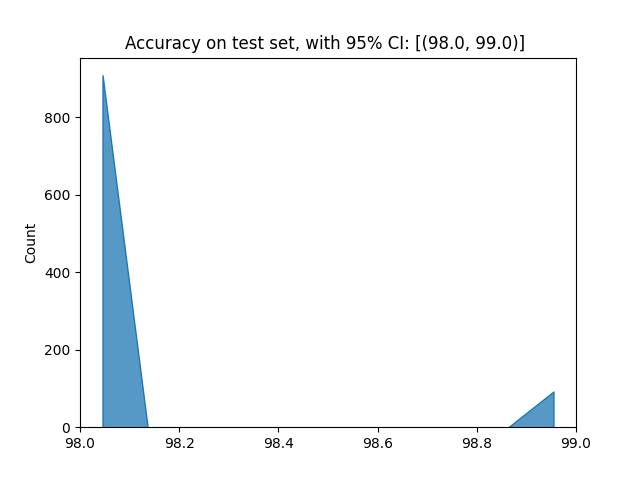
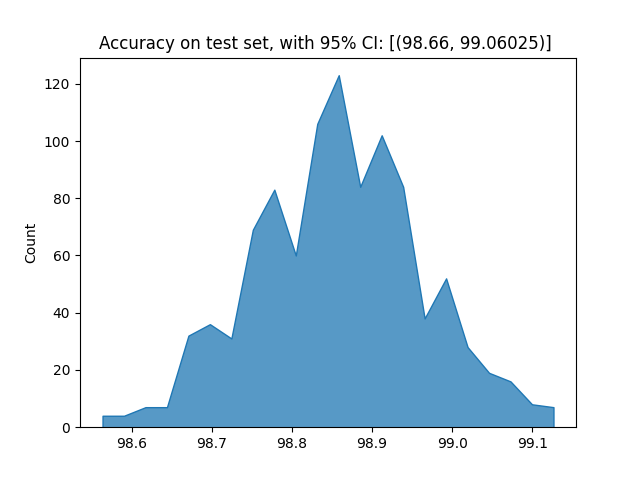
found bug. new results for evaluation

diff --git a/src/utils/model_utils.py b/src/utils/model_utils.py
@@ -1,13 +1,10 @@
 import sys
 from tqdm import tqdm
-from sklearn.model_selection import StratifiedKFold
 import torch
 import torch.nn as nn
 import torch.optim 
 from torch.utils.data import DataLoader
 import git 
-import yaml
-import pandas as pd
 import numpy as np
 
 PATH_TO_ROOT = git.Repo(".", search_parent_directories=True).working_dir
@@ -15,48 +12,70 @@ sys.path.append(PATH_TO_ROOT)
 
 from src.models.CNN import ConvNet
 from src.models.LogisticRegression import LogisticRegression
-from src.utils import utils
 
 def train_model(trainloader: DataLoader, config: dict, layer_configs=None, learning_rate=None, epochs=None):
-        if learning_rate == None:
-            learning_rate=config['learning_rate']
+    """
+    Trains a model using the provided data set and configuration. 
 
-        if epochs==None:
-            epochs = config['epochs']
+    Args:
+        trainloader (DataLoader): DataLoader for the training dataset.
+        config (dict): Configuration dictionary containing model settings like learning rate, epochs, and model type.
+        layer_configs (dict, optional): Configuration for model layers for CNN (default is None).
+        learning_rate (float, optional): Learning rate for the optimizer (default is None).
+        epochs (int, optional): Number of training epochs (default is None).
 
-        if config['model_type'] == "cnn":
-            model = ConvNet(layer_configs)
-            criterion = nn.CrossEntropyLoss()
-            optimizer  = torch.optim.Adam(model.parameters(), lr=learning_rate)
-        
-        if config['model_type'] == "logreg":
-            model = LogisticRegression()
-            criterion = nn.NLLLoss()
-            optimizer = torch.optim.SGD(model.parameters(), lr=learning_rate)
-        
-        
-        for epoch in tqdm(range(epochs)):
-            running_loss = 0.0
-            for i, data in enumerate(trainloader):
-                inputs, labels = data #list of [inputs, labels]
-                optimizer.zero_grad()
+    Returns:
+        nn.Module: The trained model.
+    """
+    if learning_rate == None:
+        learning_rate=config['learning_rate']
 
-                #forward
-                outputs = model(inputs)
-                loss = criterion(outputs, labels)
-                loss.backward()
-                optimizer.step()
+    if epochs==None:
+        epochs = config['epochs']
 
-                # print stats
-                running_loss += loss.item()
-                if i % config['print_interval'] == config['print_interval']-1: #print every interval
-                    print(f'[{epoch + 1}, {i + 1:5d}] loss: {running_loss / 2000:.3f}')
-                    running_loss = 0.0
+    if config['model_type'] == "cnn":
+        model = ConvNet(layer_configs)
+        criterion = nn.CrossEntropyLoss()
+        optimizer  = torch.optim.Adam(model.parameters(), lr=learning_rate)
+    
+    if config['model_type'] == "logreg":
+        model = LogisticRegression()
+        criterion = nn.NLLLoss()
+        optimizer = torch.optim.SGD(model.parameters(), lr=learning_rate)
+    
+    
+    for epoch in tqdm(range(epochs)):
+        running_loss = 0.0
+        for i, data in enumerate(trainloader):
+            inputs, labels = data #list of [inputs, labels]
+            optimizer.zero_grad()
 
-        return model
+            #forward
+            outputs = model(inputs)
+            loss = criterion(outputs, labels)
+            loss.backward()
+            optimizer.step()
+
+            # print stats
+            running_loss += loss.item()
+            if i % config['print_interval'] == config['print_interval']-1: #print every interval
+                print(f'[{epoch + 1}, {i + 1:5d}] loss: {running_loss / 2000:.3f}')
+                running_loss = 0.0
+
+    return model
 
 
-def test_model(testloader, model):         # Test on data set
+def test_model(testloader: DataLoader, model: nn.Module) -> float:    
+    """
+    Tests the model on the given test data and computes the overall accuracy.
+
+    Args:
+        testloader (DataLoader): DataLoader for the test dataset.
+        model (nn.Module): The trained model to evaluate.
+
+    Returns:
+        float: The overall accuracy as a percentage
+    """    
     correct = 0
     total = 0
     # since we're not training, we don't need to calculate the gradients for our outputs
@@ -70,10 +89,21 @@ def test_model(testloader, model):         # Test on data set
             total += labels.size(0)
             correct += (predicted == labels).sum().item()
 
-    accuracy = 100 * correct // total
+    accuracy = 100 * correct / total
     return accuracy
 
 def test_model_classwise(testloader, model, classes):
+    """
+    Tests the model on the given test data and computes the accuracy for each class.
+
+    Args:
+        testloader (DataLoader): DataLoader for the test dataset.
+        model (nn.Module): The trained model to evaluate.
+        classes (list): List of class names.
+
+    Returns:
+        dict: A dictionary with class-wise accuracy for each class.
+    """
      # prepare to count predictions for each class
     score_dict = {classname: 0 for classname in classes}
     correct_pred = {classname: 0 for classname in classes}

diff --git a/src/utils/cross_validation.py b/src/utils/cross_validation.py
@@ -1,33 +1,41 @@
 
 import sys
-from tqdm import tqdm
 from sklearn.model_selection import StratifiedKFold
 import torch
-import torch.nn as nn
 import torch.optim 
 from torch.utils.data import DataLoader
 import git 
-import yaml
 
 PATH_TO_ROOT = git.Repo(".", search_parent_directories=True).working_dir
 sys.path.append(PATH_TO_ROOT)
 
-from src.models.CNN import ConvNet
-from src.models.LogisticRegression import LogisticRegression
-from src.utils import utils, model_utils
+from src.utils import model_utils
 
 def run_cv(trainset: torch.Tensor, config: dict, layer_configs: dict=None, learning_rate: float = None, batch_size = None, epochs:int=None) -> dict:
-            # Initialize cross validation
-            kfold = StratifiedKFold(n_splits=config["n_splits"]).split(trainset, trainset.targets)
-            val_accuracies = []
+    """
+    Performs k-fold cross-validation on the training set. Varies the seed for each run.
 
-            if batch_size == None:
-                batch_size = config['batch_size']
-            for k, (train_idx, val_idx) in enumerate(kfold):
-                torch.manual_seed(k)
-                trainloader = DataLoader(trainset, batch_size=batch_size, sampler=torch.utils.data.SubsetRandomSampler(train_idx))
-                valloader = DataLoader(trainset, batch_size=batch_size, sampler=torch.utils.data.SubsetRandomSampler(val_idx))
-                model = model_utils.train_model(trainloader=trainloader, config=config, layer_configs=layer_configs, learning_rate=learning_rate, epochs=epochs)
-                val_accuracy = model_utils.test_model(testloader=valloader, model=model)
-                val_accuracies.append(val_accuracy)
-            return val_accuracies
+    Args:
+        trainset (torch.Tensor): The training dataset.
+        config (dict): Configuration dictionary containing parameters like number of folds, batch size and model type.
+        layer_configs (dict, optional): Configuration for model layers if training a CNN.
+        learning_rate (float, optional): Learning rate for training (default is None, meaning it uses the one provided in the scripts config).
+        batch_size (int, optional): Batch size for training and validation (default is None, meaning it uses the one provided in the scripts config).
+        epochs (int, optional): Number of epochs for training (default is None, meaning it uses the one provided in the scripts config).
+
+    Returns:
+        dict: A dictionary of validation accuracies for each fold.
+    """
+    kfold = StratifiedKFold(n_splits=config["n_splits"]).split(trainset, trainset.targets)
+    val_accuracies = []
+
+    if batch_size == None:
+        batch_size = config['batch_size']
+    for k, (train_idx, val_idx) in enumerate(kfold):
+        torch.manual_seed(k)
+        trainloader = DataLoader(trainset, batch_size=batch_size, sampler=torch.utils.data.SubsetRandomSampler(train_idx))
+        valloader = DataLoader(trainset, batch_size=batch_size, sampler=torch.utils.data.SubsetRandomSampler(val_idx))
+        model = model_utils.train_model(trainloader=trainloader, config=config, layer_configs=layer_configs, learning_rate=learning_rate, epochs=epochs)
+        val_accuracy = model_utils.test_model(testloader=valloader, model=model)
+        val_accuracies.append(val_accuracy)
+    return val_accuracies

diff --git a/src/models/CNN.py b/src/models/CNN.py
@@ -4,36 +4,36 @@ import torch.nn.functional as F
 import torch.optim as optim
 
 class ConvNet(nn.Module):
-    def __init__(self, layer_configs):
-        """
-        Creates a convolutional neural network class.
+    """
+    Creates a convolutional neural network class.
 
-        Args:
-            layer_configs (list of dict): Each dictionary contains the configuration for a layer.
-                - 'type' (str): Either "conv" or "linear".
-                - If 'type' is "linear":
-                    - 'in_features' (int): Input dimensions.
-                    - 'out_features' (int): Output dimensions.
-                - If 'type' is "conv":
-                    - 'in_channels' (int): Input channels for the convolutional layer.
-                    - 'out_channels' (int): Output channels for the convolutional layer.
-                    - 'kernel_size' (int or tuple): Kernel size for the convolutional layer.
-                    - 'padding' (int, optional): Padding for the convolutional layer (default is 0).
-                - 'activation' (str or None): Activation function, either "sigmoid", "ReLU", or None.
-                - 'pooling' (int, optional): Kernel size for pooling (if pooling).
-                - 'dropout' (float, optional): Probability of dropout (between 0 and 1, default is None).
-        
-        
-        Methods:
-        _get_activation(activation):
-            Returns the appropriate activation function based on the input string.
-        
-        forward(x):
-            Defines the forward pass. Takes an input tensor, processes it through the layers, and returns the output.
-        
-        get_flattened_size():
-            Calculates the flattened size of the output after all convolutional and pooling layers.
-        """
+    Args:
+        layer_configs (list of dict): Each dictionary contains the configuration for a layer.
+            - 'type' (str): Either "conv" or "linear".
+            - If 'type' is "linear":
+                - 'in_features' (int): Input dimensions.
+                - 'out_features' (int): Output dimensions.
+            - If 'type' is "conv":
+                - 'in_channels' (int): Input channels for the convolutional layer.
+                - 'out_channels' (int): Output channels for the convolutional layer.
+                - 'kernel_size' (int or tuple): Kernel size for the convolutional layer.
+                - 'padding' (int, optional): Padding for the convolutional layer (default is 0).
+            - 'activation' (str or None): Activation function, either "sigmoid", "ReLU", or None.
+            - 'pooling' (int, optional): Kernel size for pooling (if pooling).
+            - 'dropout' (float, optional): Probability of dropout (between 0 and 1, default is None).
+
+
+    Methods:
+    _get_activation(activation):
+        Returns the appropriate activation function based on the input string.
+
+    forward(x):
+        Defines the forward pass. Takes an input tensor, processes it through the layers, and returns the output.
+
+    get_flattened_size():
+        Calculates the flattened size of the output after all convolutional and pooling layers.
+    """
+    def __init__(self, layer_configs):
         super(ConvNet, self).__init__()
         self.layers = nn.ModuleList()
         self.layer_configs = layer_configs

diff --git a/src/utils/bootstrap.py b/src/utils/bootstrap.py
@@ -2,6 +2,7 @@ from typing import List
 import sys
 
 import torch
+import torch.nn as nn
 import numpy as np
 from torch.utils.data import DataLoader
 from tqdm import tqdm
@@ -33,13 +34,13 @@ def get_bootstrap_sample(dataset: torch.Tensor, config: dict, seed: int) -> Data
         dataloader = DataLoader(dataset, batch_size=batch_size, sampler=torch.utils.data.SubsetRandomSampler(idx))
         return dataloader
 
-def bootstrap_test_set(testset: torch.Tensor, model, config: dict) -> List:
+def bootstrap_test_set(testset: torch.Tensor, model: nn.Module, config: dict) -> List:
         """
         Performs bootstrap sampling on the data set and computes accuracies. Varies the seed for each bootstrap run.
 
         Args:
                 testset (torch.Tensor): The test dataset, this method is only intented for test/validation sets.
-                model: The model to evaluate.
+                model(nn.Module): The model to evaluate.
                 config (dict): Configuration dictionary containing the number of bootstraps.
 
         Returns:
@@ -52,3 +53,4 @@ def bootstrap_test_set(testset: torch.Tensor, model, config: dict) -> List:
                 total_accuracies.append(accuracy)
 
         return total_accuracies
+

diff --git a/src/models/LogisticRegression.py b/src/models/LogisticRegression.py
@@ -3,8 +3,18 @@ import torch.nn as nn
 import torch.nn.functional as F
 
 
-# Create model for MNIST classification (10 classes)
 class LogisticRegression(nn.Module):
+    """
+    Logistic Regression model for digit classification (e.g., MNIST).
+
+    Args:
+        n_input_features (int): Number of input features (default is 784 for 28x28 images).
+
+    Methods:
+        forward(x):
+            Defines the forward pass of the model. 
+            Takes an input tensor, flattens it, computes the logits, and applies softmax.
+    """
     def __init__(self, n_input_features=784):  # 28x28 = 784 pixels for MNIST
         super(LogisticRegression, self).__init__()
         self.linear = nn.Linear(n_input_features, 10)  # 10 classes for digits 0-9
